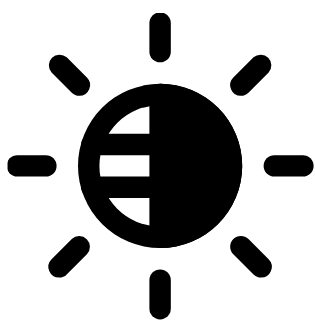
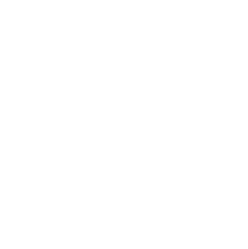
slight changes

diff --git a/assets/css/style.css b/assets/css/style.css
@@ -454,7 +454,7 @@ body.sidebar-collapsed .header-branding-dynamic {
     left: 2px;
     width: 26px;
     height: 26px;
-    background-color: #0f172a; 
+    background-color: #ffffff; 
     border-radius: 50%;
     
     